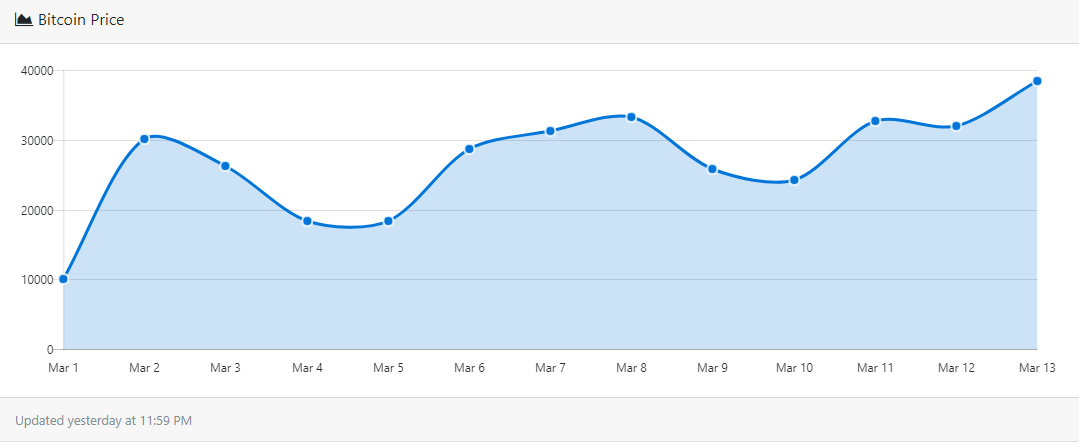
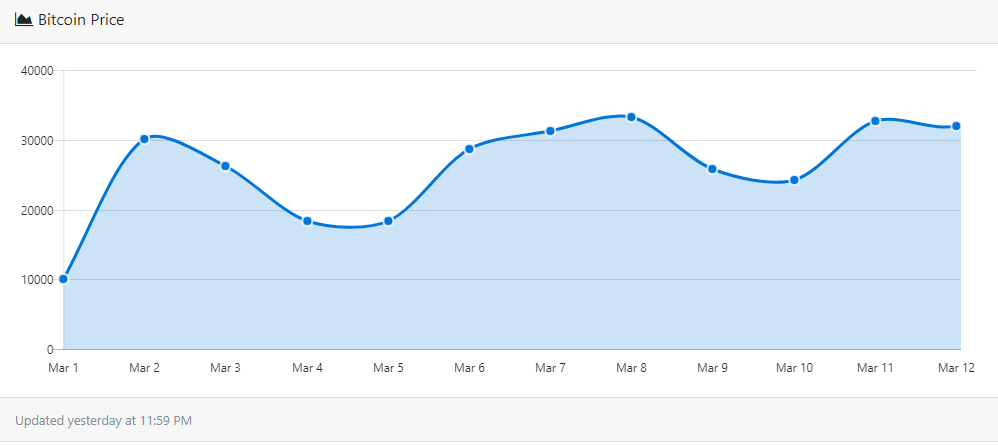
Scholary

diff --git a/index.html b/index.html
@@ -253,7 +253,7 @@
 			</figure>
 			<p>
 				The user can select the period of which the graph will show data,
-				in our case it was selected from the first of May until the 13th of May
+				in our case it was selected from the first of May until the 12th of May
 				and it was rendered the above graph.
 			</p>
 			<p>
@@ -267,7 +267,35 @@
 			  </figcaption>
 			</figure>
 			<p>
-				We assumed the current day is the 13th of May and predicted the 14th of May
+				We assumed the current day is the 12th of May and predicted the 13th of May,
+				as it can pe seen, there is a dotted line from 12th till 13th predicting a growth.
+			</p>
+			<p>
+				Another visualisation tool is the monthly prive average, as seen below.
+			</p>
+			<figure typeof="sa:Image">
+			  <img src="Front End/Photos/bitcoin_distribution_mothly.PNG" >	
+			  <figcaption>
+				Mothly prive average
+			  </figcaption>
+			</figure>
+			<p>
+				Just like the graphs presented in the past, the output periods can be changed
+				and the user can choose what to see. The users can also see a price prediction for 
+				the following month if the timeframe consists of the current months.
+			</p>
+			<figure typeof="sa:Image">
+			  <img src="Front End/Photos/bitcoin_distribution_mothly_prediction.PNG" >	
+			  <figcaption>
+				Mothly prive average with prediction
+			  </figcaption>
+			</figure>
+			<p>
+				The algorithm estimates an increase, an informs the user with a red
+				rectangle about the prediction.
+			</p>
+			<p>
+			
 			</p>
 		</section>
 			
